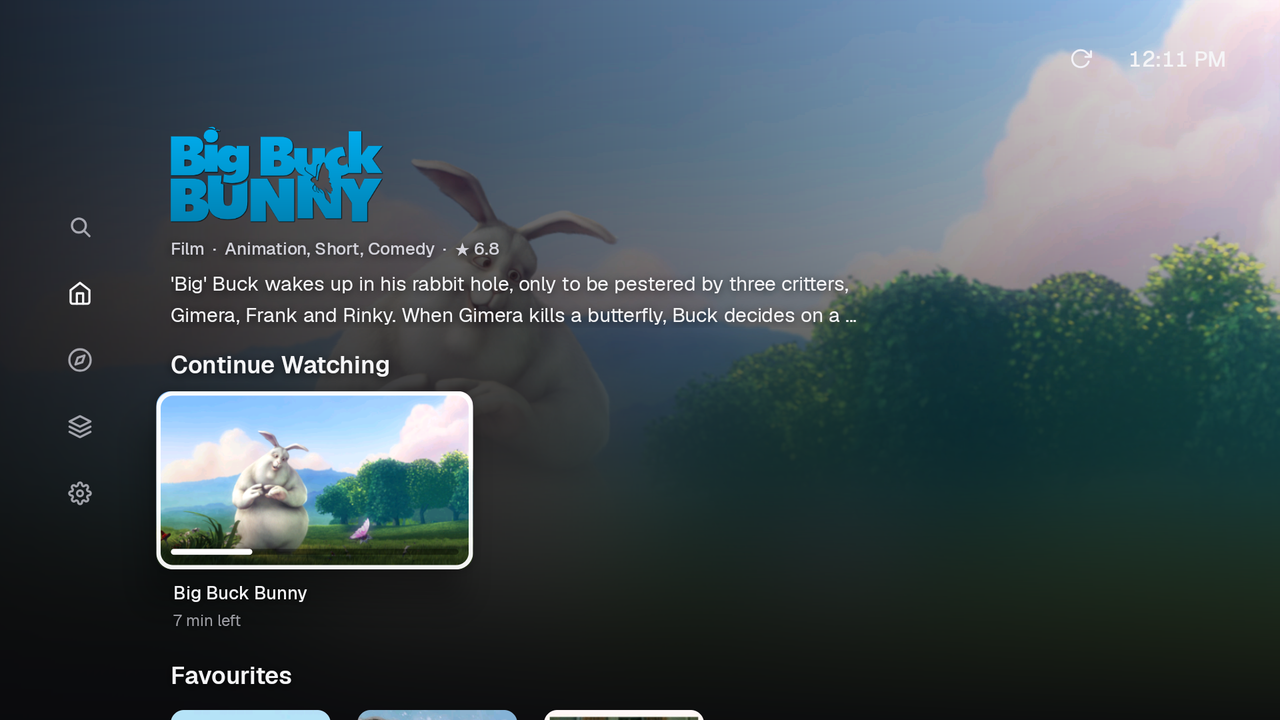
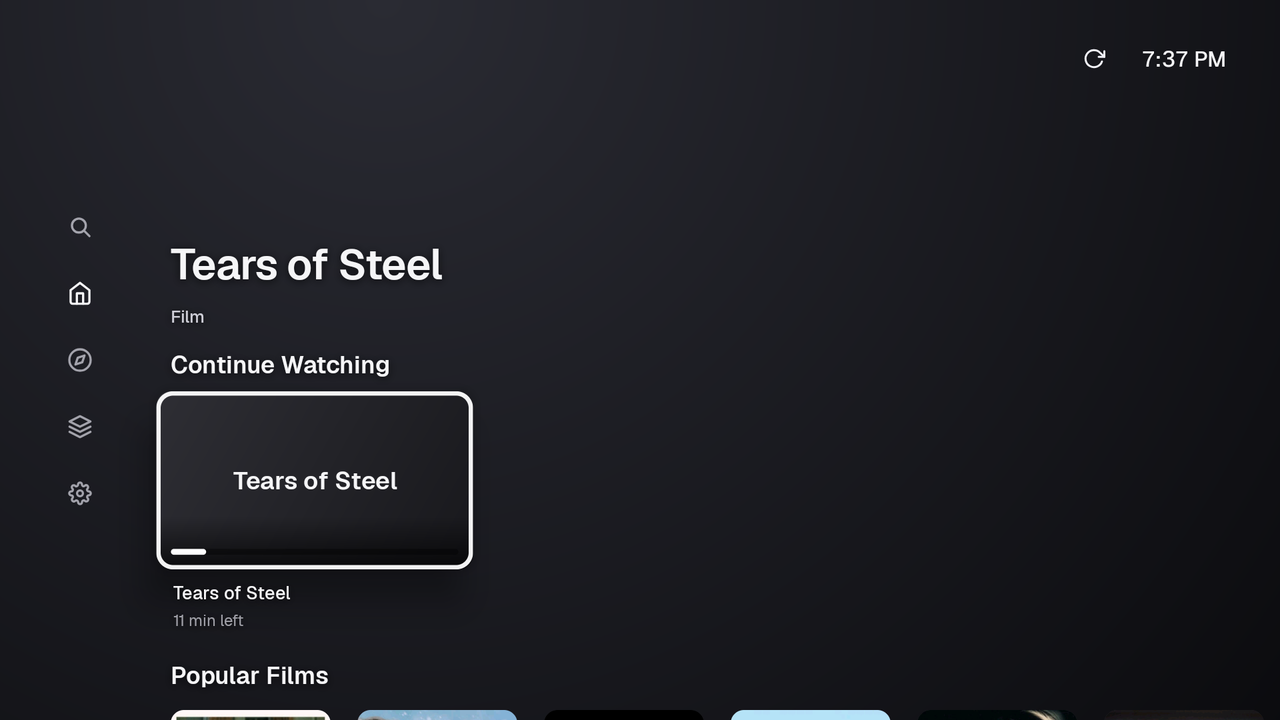
Refresh README media with licensed live-action playback

diff --git a/android/app/src/androidTest/java/tv/stream/app/ReadmeCapture.kt b/android/app/src/androidTest/java/tv/stream/app/ReadmeCapture.kt
@@ -8,6 +8,7 @@ import java.io.File
 import java.io.FileOutputStream
 import java.util.concurrent.atomic.AtomicBoolean
 import org.json.JSONObject
+import org.json.JSONArray
 import org.junit.Before
 import org.junit.Test
 import tv.stream.app.addon.AddonUrl
@@ -18,12 +19,12 @@ import tv.stream.app.addon.Title
  * Explicit capture utility for the README, not a regression gate: `./simulator.sh readme-media` runs it on the verified
  * emulator and turns its output into `docs/media`. It uses real providers over the internet with an isolated database
  * (nothing reaches owner data). Browsing scenes show Cinemeta's current catalogue (titles, posters and artwork as the
- * app displays them); nothing from it is played. The only film that plays on camera is Big Buck Bunny (Blender
- * Foundation, CC BY 3.0), streamed by the built-in Internet Archive add-on. No torrent add-on is installed.
+ * app displays them); nothing from it is played. The only film that plays on camera is Tears of Steel (2012),
+ * © Blender Foundation, CC BY 3.0, from the Blender Foundation’s download server. No torrent add-on is installed.
  */
 class ReadmeCapture : AppHarness() {
-    private lateinit var cinemeta: String
-    private val output by lazy { File(context.filesDir, "readme").also { it.deleteRecursively(); it.mkdirs() } }
+    private val playbackOnly get() = androidx.test.platform.app.InstrumentationRegistry.getArguments().getString("capturePlaybackOnly") == "true"
+    private val output by lazy { File(context.filesDir, "readme").also { if (!playbackOnly) it.deleteRecursively(); it.mkdirs() } }
 
     @Before fun internet() {
         context.getSharedPreferences("instrumentation", Context.MODE_PRIVATE).edit().putBoolean("localOnly", false)
@@ -33,79 +34,79 @@ class ReadmeCapture : AppHarness() {
             services.addons.newRequest().use { request -> services.addons.install(url, services.addons.preview(url, request)) }
         }
         val installed = services.store.addons()
-        cinemeta = installed.first { it.manifest.name == "Cinemeta" }.id
-        // Browsing shows Cinemeta's current catalogue; the Archive only supplies the open film that plays.
+        // Keep browsing on Cinemeta’s current catalogue; playback uses the explicit licensed source below.
         val archive = installed.first { it.manifest.name == "Internet Archive" }
         for (c in archive.manifest.catalogs) services.store.catalogVisible(archive.id, c.type, c.id, false)
     }
 
     @Test @Throws(Exception::class) fun capture() {
         launch()
-        waitUntil("Home rows", 60_000) { visible("Popular Films") }
-        settle(4000)
-        // A small library, added with the remote from the first catalogue row, so the favourites carry its artwork.
-        for (i in 0 until 3) {
-            key(KeyEvent.KEYCODE_DPAD_CENTER); waitUntil("details $i", 30_000) { visible("Play") }; settle(1500)
-            tap("Add favourite", false); waitUntil("favourite $i", 10_000) { visible("Remove favourite") }
-            key(KeyEvent.KEYCODE_BACK); waitUntil("Home again", 15_000) { visible("Popular Films") }; settle(1500)
-            repeat(i + 1) { key(KeyEvent.KEYCODE_DPAD_RIGHT); pause(300) }
-        }
-        root("Library"); pause(500); root("Home")
-        waitUntil("Home with favourites", 30_000) { visible("Favourites") && visible("Popular Films") }
-        settle(4000)
+        if (!playbackOnly) {
+            waitUntil("Home rows", 60_000) { visible("Popular Films") }
+            settle(4000)
+            // A small library, added with the remote from the first catalogue row, so the favourites carry its artwork.
+            for (i in 0 until 3) {
+                key(KeyEvent.KEYCODE_DPAD_CENTER); waitUntil("details $i", 30_000) { visible("Play") }; settle(1500)
+                tap("Add favourite", false); waitUntil("favourite $i", 10_000) { visible("Remove favourite") }
+                key(KeyEvent.KEYCODE_BACK); waitUntil("Home again", 15_000) { visible("Popular Films") }; settle(1500)
+                repeat(i + 1) { key(KeyEvent.KEYCODE_DPAD_RIGHT); pause(300) }
+            }
+            root("Library"); pause(500); root("Home")
+            waitUntil("Home with favourites", 30_000) { visible("Favourites") && visible("Popular Films") }
+            settle(4000)
 
-        // Start at the top of Home, the spotlight over the first favourite.
-        focusTop("favourite:" + services.store.library(false).first { it.favourite }.title.key())
-        settle(3000)
-        record("home", 18) {
-            pause(1500)
-            repeat(2) { key(KeyEvent.KEYCODE_DPAD_RIGHT); pause(900) }
-            key(KeyEvent.KEYCODE_DPAD_DOWN); pause(1100)
-            repeat(4) { key(KeyEvent.KEYCODE_DPAD_RIGHT); pause(800) }
-            key(KeyEvent.KEYCODE_DPAD_DOWN); pause(1100); key(KeyEvent.KEYCODE_DPAD_UP); pause(1100)
-            // A film: the capture installs no series stream add-on, and a series would say so on its page.
-            key(KeyEvent.KEYCODE_DPAD_CENTER); waitUntil("details", 20_000) { visible("Play") || visible("Resume") }; pause(3500)
-        }
-        shot("details")
-        key(KeyEvent.KEYCODE_BACK); waitUntil("Home again", 10_000) { visible("Popular Films") }; settle(2500)
-        focusTop("favourite:" + services.store.library(false).first { it.favourite }.title.key())
-        settle(2500)
-        shot("home")
+            // Start at the top of Home, the spotlight over the first favourite.
+            focusTop("favourite:" + services.store.library(false).first { it.favourite }.title.key())
+            settle(3000)
+            record("home", 18) {
+                pause(1500)
+                repeat(2) { key(KeyEvent.KEYCODE_DPAD_RIGHT); pause(900) }
+                key(KeyEvent.KEYCODE_DPAD_DOWN); pause(1100)
+                repeat(4) { key(KeyEvent.KEYCODE_DPAD_RIGHT); pause(800) }
+                key(KeyEvent.KEYCODE_DPAD_DOWN); pause(1100); key(KeyEvent.KEYCODE_DPAD_UP); pause(1100)
+                // A film: the capture installs no series stream add-on, and a series would say so on its page.
+                key(KeyEvent.KEYCODE_DPAD_CENTER); waitUntil("details", 20_000) { visible("Play") || visible("Resume") }; pause(3500)
+            }
+            shot("details")
+            key(KeyEvent.KEYCODE_BACK); waitUntil("Home again", 10_000) { visible("Popular Films") }; settle(2500)
+            focusTop("favourite:" + services.store.library(false).first { it.favourite }.title.key())
+            settle(2500)
+            shot("home")
 
-        browse!!.onActivity { it.search() }; waitUntil("keyboard", 10_000) { visible("Type a") }; settle(1200)
-        // A first pass warms the providers' search, so the recorded one is prompt.
-        typeWithRemote("dune")
-        try { waitUntil("first results", 60_000) { visible("Dune") } } catch (e: AssertionError) { shot("search-timeout"); throw e }
-        tap("Clear", false); waitUntil("cleared", 10_000) { visible("Type a") }; settle(1500)
-        record("search", 40) {
-            pause(1000)
+            browse!!.onActivity { it.search() }; waitUntil("keyboard", 10_000) { visible("Type a") }; settle(1200)
+            // A first pass warms the providers' search, so the recorded one is prompt.
             typeWithRemote("dune")
-            waitUntil("results", 30_000) { visible("Dune") }; pause(2500)
-            key(KeyEvent.KEYCODE_DPAD_RIGHT); pause(2500)
-            repeat(2) { key(KeyEvent.KEYCODE_DPAD_RIGHT); pause(700) }
-            key(KeyEvent.KEYCODE_DPAD_DOWN); pause(1200)
-            key(KeyEvent.KEYCODE_DPAD_LEFT); pause(700); key(KeyEvent.KEYCODE_DPAD_LEFT); pause(700)
-            key(KeyEvent.KEYCODE_DPAD_LEFT); pause(2500)
+            try { waitUntil("first results", 60_000) { visible("Dune") } } catch (e: AssertionError) { shot("search-timeout"); throw e }
+            tap("Clear", false); waitUntil("cleared", 10_000) { visible("Type a") }; settle(1500)
+            record("search", 40) {
+                pause(1000)
+                typeWithRemote("dune")
+                waitUntil("results", 30_000) { visible("Dune") }; pause(2500)
+                key(KeyEvent.KEYCODE_DPAD_RIGHT); pause(2500)
+                repeat(2) { key(KeyEvent.KEYCODE_DPAD_RIGHT); pause(700) }
+                key(KeyEvent.KEYCODE_DPAD_DOWN); pause(1200)
+                key(KeyEvent.KEYCODE_DPAD_LEFT); pause(700); key(KeyEvent.KEYCODE_DPAD_LEFT); pause(700)
+                key(KeyEvent.KEYCODE_DPAD_LEFT); pause(2500)
+            }
+            shot("search")
+
+            root("Library"); waitUntil("Library", 20_000) { visible("Favourites") || !visible("Your library is empty") }; settle(2000); shot("library")
+            root("Settings"); tap("Add-ons", false); waitUntil("installed add-ons", 10_000) { visible("Cinemeta") }; settle(1500); shot("settings-addons")
+            tap("Subtitles", false); waitUntil("subtitle settings", 10_000) { visible("Subtitle color") }; settle(1500); shot("settings-subtitles")
+
         }
-        shot("search")
-
-        root("Library"); waitUntil("Library", 20_000) { visible("Favourites") || !visible("Your library is empty") }; settle(2000); shot("library")
-        root("Settings"); tap("Add-ons", false); waitUntil("installed add-ons", 10_000) { visible("Cinemeta") }; settle(1500); shot("settings-addons")
-        tap("Subtitles", false); waitUntil("subtitle settings", 10_000) { visible("Subtitle color") }; settle(1500); shot("settings-subtitles")
-
-        // Only an openly licensed film plays on camera: Big Buck Bunny (Blender Foundation, CC BY 3.0), from archive.org.
-        root("Home"); waitUntil("Home", 30_000) { visible("Favourites") }; settle(1500)
-        open("tt1254207", "Big Buck Bunny")
+        // A capture-only inline source points to the freely licensed film on the Blender Foundation’s download server.
+        root("Home"); waitUntil("Home", 30_000) { visible("Popular Films") }; settle(1500)
+        openLicensedFilm()
         tap("Sources", true)
-        // Rows read "Internet Archive 1080p" and so on; the sort chips and the count come with them.
+        // The Sources page displays the capture-only licensed source and its sort controls.
         try { waitUntil("sources", 150_000) { visible("Seeds") && visible("Played") && !visible("Finding sources") } } catch (e: AssertionError) { shot("sources-timeout"); throw e }
         settle(5000); shot("sources")
         key(KeyEvent.KEYCODE_BACK); waitUntil("details again", 10_000) { visible("Play") }
         tap("Play", true)
-        waitUntil("the film plays from archive.org", 180_000) { state() != null && state()!!.renderedFirstFrame && state()!!.playing && state()!!.positionMs >= 3000 }
-        val player = watch()
-        instrumentation.runOnMainSync { AppFlowTest.session(player).seekTo(2L * 60_000) }
-        waitUntil("playing after the seek", 90_000) { state()!!.playing && state()!!.positionMs >= 2L * 60_000 + 3000 }
+        waitUntil("the licensed film plays", 180_000) { state() != null && state()!!.renderedFirstFrame && state()!!.playing && state()!!.positionMs >= 3000 }
+        // Let the remote film play forward: a large remote seek can stall on a cold range request.
+        waitUntil("the opening scene", 90_000) { state()!!.playing && state()!!.positionMs >= 45_000 }
         pause(4000)
         record("player", 18) {
             pause(2000)
@@ -128,14 +129,19 @@ class ReadmeCapture : AppHarness() {
         waitUntil("player closed", 15_000) { watch() == null }
         root("Home"); waitUntil("Continue watching", 30_000) { visible("Continue watching") || visible("Continue Watching") }; settle(1500)
         // Continue watching tiles are keyed by title and video: a film's video is its own id.
-        focusTop("continue:" + services.store.library(false).first { it.title.id == "tt1254207" }.title.key() + ":tt1254207")
+        focusTop("continue:" + services.store.library(false).first { it.title.id == "readme:tears-of-steel" }.title.key() + ":readme:tears-of-steel")
         settle(2500); shot("home-continue")
     }
 
-    private fun open(id: String, name: String) {
-        val title = Title.parse(cinemeta, JSONObject().put("id", id).put("type", "movie").put("name", name))!!
+    private fun openLicensedFilm() {
+        val id = "readme:tears-of-steel"
+        val source = JSONObject().put("name", "Tears of Steel 720p")
+            .put("url", "https://download.blender.org/demo/movies/ToS/tears_of_steel_720p.mov")
+        val video = JSONObject().put("id", id).put("streams", JSONArray().put(source))
+        val title = Title.parse("readme-capture", JSONObject().put("id", id).put("type", "movie")
+            .put("name", "Tears of Steel").put("videos", JSONArray().put(video)))!!
         browse!!.onActivity { it.openTitle(title, "") }
-        waitUntil("$name details", 30_000) { visible("Play") }
+        waitUntil("Tears of Steel details", 30_000) { visible("Play") }
         settle(2500)
     }
 
@@ -183,7 +189,7 @@ class ReadmeCapture : AppHarness() {
     private fun record(name: String, seconds: Int, scene: () -> Unit) {
         val path = "/data/local/tmp/readme-$name.mp4"
         instrumentation.uiAutomation.executeShellCommand("rm -f $path").close()
-        val recording = instrumentation.uiAutomation.executeShellCommand("screenrecord --time-limit $seconds --bit-rate 12000000 $path")
+        val recording = instrumentation.uiAutomation.executeShellCommand("screenrecord --size 1280x720 --time-limit $seconds --bit-rate 4000000 $path")
         val drained = Thread {
             android.os.ParcelFileDescriptor.AutoCloseInputStream(recording).use { it.readBytes() }
         }.apply { start() }

diff --git a/README.md b/README.md
@@ -13,7 +13,7 @@ No account, no cloud, no server, no debrid subscription, no tracking: your data 
 
 <img src="docs/media/home.gif" alt="Browsing Home: the spotlight follows focus across current films and series, then opens a film's details" width="960"/>
 
-<sub>Real interface on the Android TV emulator. Titles and artwork come from the Cinemeta catalogue; the only film shown playing is Big Buck Bunny (© Blender Foundation, CC BY 3.0).</sub>
+<sub>Real interface on the Android TV emulator. Titles and artwork come from the Cinemeta catalogue; the only film shown playing is Tears of Steel (2012, © Blender Foundation, CC BY 3.0).</sub>
 
 </div>
 
@@ -69,8 +69,8 @@ No account, no cloud, no server, no debrid subscription, no tracking: your data 
 <td><b>Search</b>: a keyboard made for the remote, results as you type, a full grid with Right.</td>
 </tr>
 <tr>
-<td><img src="docs/media/player-controls.png" alt="The player's toolbar over Big Buck Bunny: title, timeline, watched, Audio &amp; subtitles and Settings"/></td>
-<td><img src="docs/media/sources.png" alt="The sources for Big Buck Bunny, with sort options, quality and size"/></td>
+<td><img src="docs/media/player-controls.png" alt="The player's toolbar over Tears of Steel: title, timeline, watched, Audio &amp; subtitles and Settings"/></td>
+<td><img src="docs/media/sources.png" alt="The sources for Tears of Steel, with sort options, quality and size"/></td>
 </tr>
 <tr>
 <td><b>Player</b>: a quiet toolbar with a draggable timeline; subtitles always stay clear of it.</td>
@@ -221,6 +221,6 @@ Stream does not host, index or provide any content. Add-ons are third-party
 services chosen by the user, who is responsible for what they watch and for
 respecting the law and copyright where they live. The screenshots and recordings
 in this README show titles and artwork from the Cinemeta catalogue as the app
-displays them; the only film shown playing is Big Buck Bunny (© Blender
+displays them; the only film shown playing is [Tears of Steel](https://mango.blender.org/about/) (2012, © Blender
 Foundation, [CC BY 3.0](https://creativecommons.org/licenses/by/3.0/)),
-streamed from the Internet Archive.
+streamed from the Blender Foundation’s own download server.

diff --git a/docs/testing.md b/docs/testing.md
@@ -261,13 +261,19 @@ now writes a `failure` record with the player state and engine diagnostics; see
 
 Never required, never against a LAN TV, and nothing plays but public-domain or
 openly licensed films (`readme-media` browses Cinemeta's current catalogue but
-plays only Big Buck Bunny, CC BY). Each uses
+plays only Tears of Steel, CC BY 3.0). Each uses
 an isolated database and installs nothing into owner data; none supplies
 accounts or credentials.
 
+README recordings use 1280 × 720 at 4 Mbps. The licensed live-action film comes
+from the Blender Foundation’s download server and plays forward before capture.
+To retry just playback while preserving completed browsing captures, run
+`./simulator.sh data-test tv.stream.app.ReadmeCapture -e capturePlaybackOnly true`,
+then `sh simulator/readme-media.sh`.
+
 ```sh
 ./simulator.sh live-film       # films installed through the store play on the emulator
-./simulator.sh readme-media    # README screenshots and GIFs (docs/media); plays only Big Buck Bunny
+./simulator.sh readme-media    # README screenshots and GIFs (docs/media); plays only Tears of Steel
 ./simulator.sh live-addons     # every current store entry: manifest, resources, review install
 ./simulator.sh live-torrents   # one public-domain torrent per sampled provider
 ./simulator.sh live-torrents Torrentio,Comet   # a subset; names without spaces

diff --git a/docs/development.md b/docs/development.md
@@ -73,7 +73,7 @@ release workflow; see [Releasing](releasing.md).
 | Launcher icon and banner | `android/branding/make_brand.py` |
 | Engine open source notice | `python3 native/core/notices.py` after `Cargo.lock` changes |
 | Baseline and Startup Profiles | `./simulator.sh baseline-profile` ([testing](testing.md#baseline-and-startup-profiles)) |
-| README screenshots and GIFs | `./simulator.sh readme-media` (internet; real catalogue, plays only Big Buck Bunny, CC BY) |
+| README screenshots and GIFs | `./simulator.sh readme-media` (internet; real catalogue, plays only Tears of Steel, CC BY 3.0) |
 
 ## Tests
 
